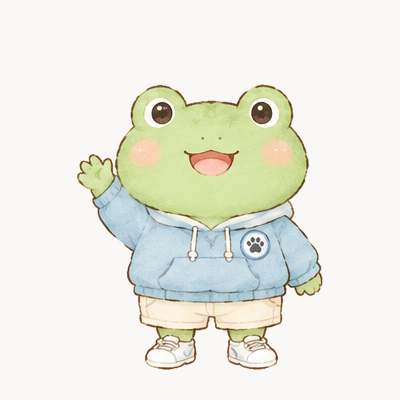
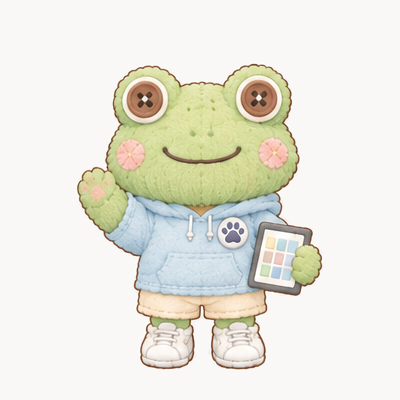
feat: 社員イラストを v3（ぬいぐるみ版）に差し替え、クマジを社員紹介に追加
- crop_members.py を 4・3・3 の10体に対応（連結成分で分離、隣のキャラを除去）
- public/members に10枚を出力（kumaji.webp を追加）
- members.ts にクマジを追加、「10人のチーム」に文言修正
- テストを10人に更新

Changed region(s): [[0.18, 0.15, 0.81, 0.93]]

diff --git a/tests/unit/members.test.ts b/tests/unit/members.test.ts
@@ -5,17 +5,17 @@ import { members } from '../../src/data/members';
 import { products } from '../../src/data/products';
 
 describe('members', () => {
-  it('9人が組織図順にそろう', () => {
+  it('10人が組織図順にそろう', () => {
     expect(members.map((m) => m.id)).toEqual([
-      'konko', 'poko', 'hime', 'kerota', 'moko', 'mike', 'penta', 'piyo', 'holo',
+      'konko', 'poko', 'hime', 'kerota', 'moko', 'mike', 'penta', 'piyo', 'holo', 'kumaji',
     ]);
     expect(members.map((m) => m.name)).toEqual([
-      'コンコ', 'ポコ', 'ヒメ', 'ケロタ', 'モコ', 'ミケ', 'ペンタ', 'ピヨ', 'ホロ',
+      'コンコ', 'ポコ', 'ヒメ', 'ケロタ', 'モコ', 'ミケ', 'ペンタ', 'ピヨ', 'ホロ', 'クマジ',
     ]);
   });
   it('id・名前に重複がなく、全項目が空でない', () => {
-    expect(new Set(members.map((m) => m.id)).size).toBe(9);
-    expect(new Set(members.map((m) => m.name)).size).toBe(9);
+    expect(new Set(members.map((m) => m.id)).size).toBe(10);
+    expect(new Set(members.map((m) => m.name)).size).toBe(10);
     for (const m of members) {
       for (const v of Object.values(m)) expect(v.trim()).not.toBe('');
     }

diff --git a/tests/components/components.test.ts b/tests/components/components.test.ts
@@ -42,9 +42,9 @@ describe('Products', () => {
 });
 
 describe('Members', () => {
-  it('9枚・組織図順・alt あり', async () => {
+  it('10枚・組織図順・alt あり', async () => {
     const html = await render(Members, { members });
-    expect(count(html, '<li class="member-card"')).toBe(9);
+    expect(count(html, '<li class="member-card"')).toBe(10);
     const pos = members.map((m) => html.indexOf(`alt="${m.name}（${m.motif}）のイラスト"`));
     expect(pos.every((p) => p >= 0)).toBe(true);
     expect([...pos].sort((x, y) => x - y)).toEqual(pos);

diff --git a/tests/dist/dist.test.ts b/tests/dist/dist.test.ts
@@ -61,7 +61,7 @@ describe('dist（npm run build の後に実行）', () => {
     expect(h).toMatch(/<title>ぺんぎんラボ/);
     expect(h).toMatch(/<span[^>]*>ぺんぎんラボ<[/]span>/);
     expect(h).toContain('© ' + new Date().getFullYear() + ' ぺんぎんラボ');
-    expect(h).toContain('9人のチーム');
+    expect(h).toContain('10人のチーム');
   });
 
   it('title・description・OGP がある（og:image は絶対URL）', () => {

diff --git a/src/data/members.ts b/src/data/members.ts
@@ -91,4 +91,13 @@ export const members: readonly Member[] = [
     career: '市場調査会社5年、アクセス解析',
     image: 'members/holo.webp',
   },
+  {
+    id: 'kumaji',
+    name: 'クマジ',
+    motif: 'くま',
+    role: '教育係',
+    tagline: '大らかで頼れる。急かさない',
+    career: 'プログラミング教室の講師を7年',
+    image: 'members/kumaji.webp',
+  },
 ];
